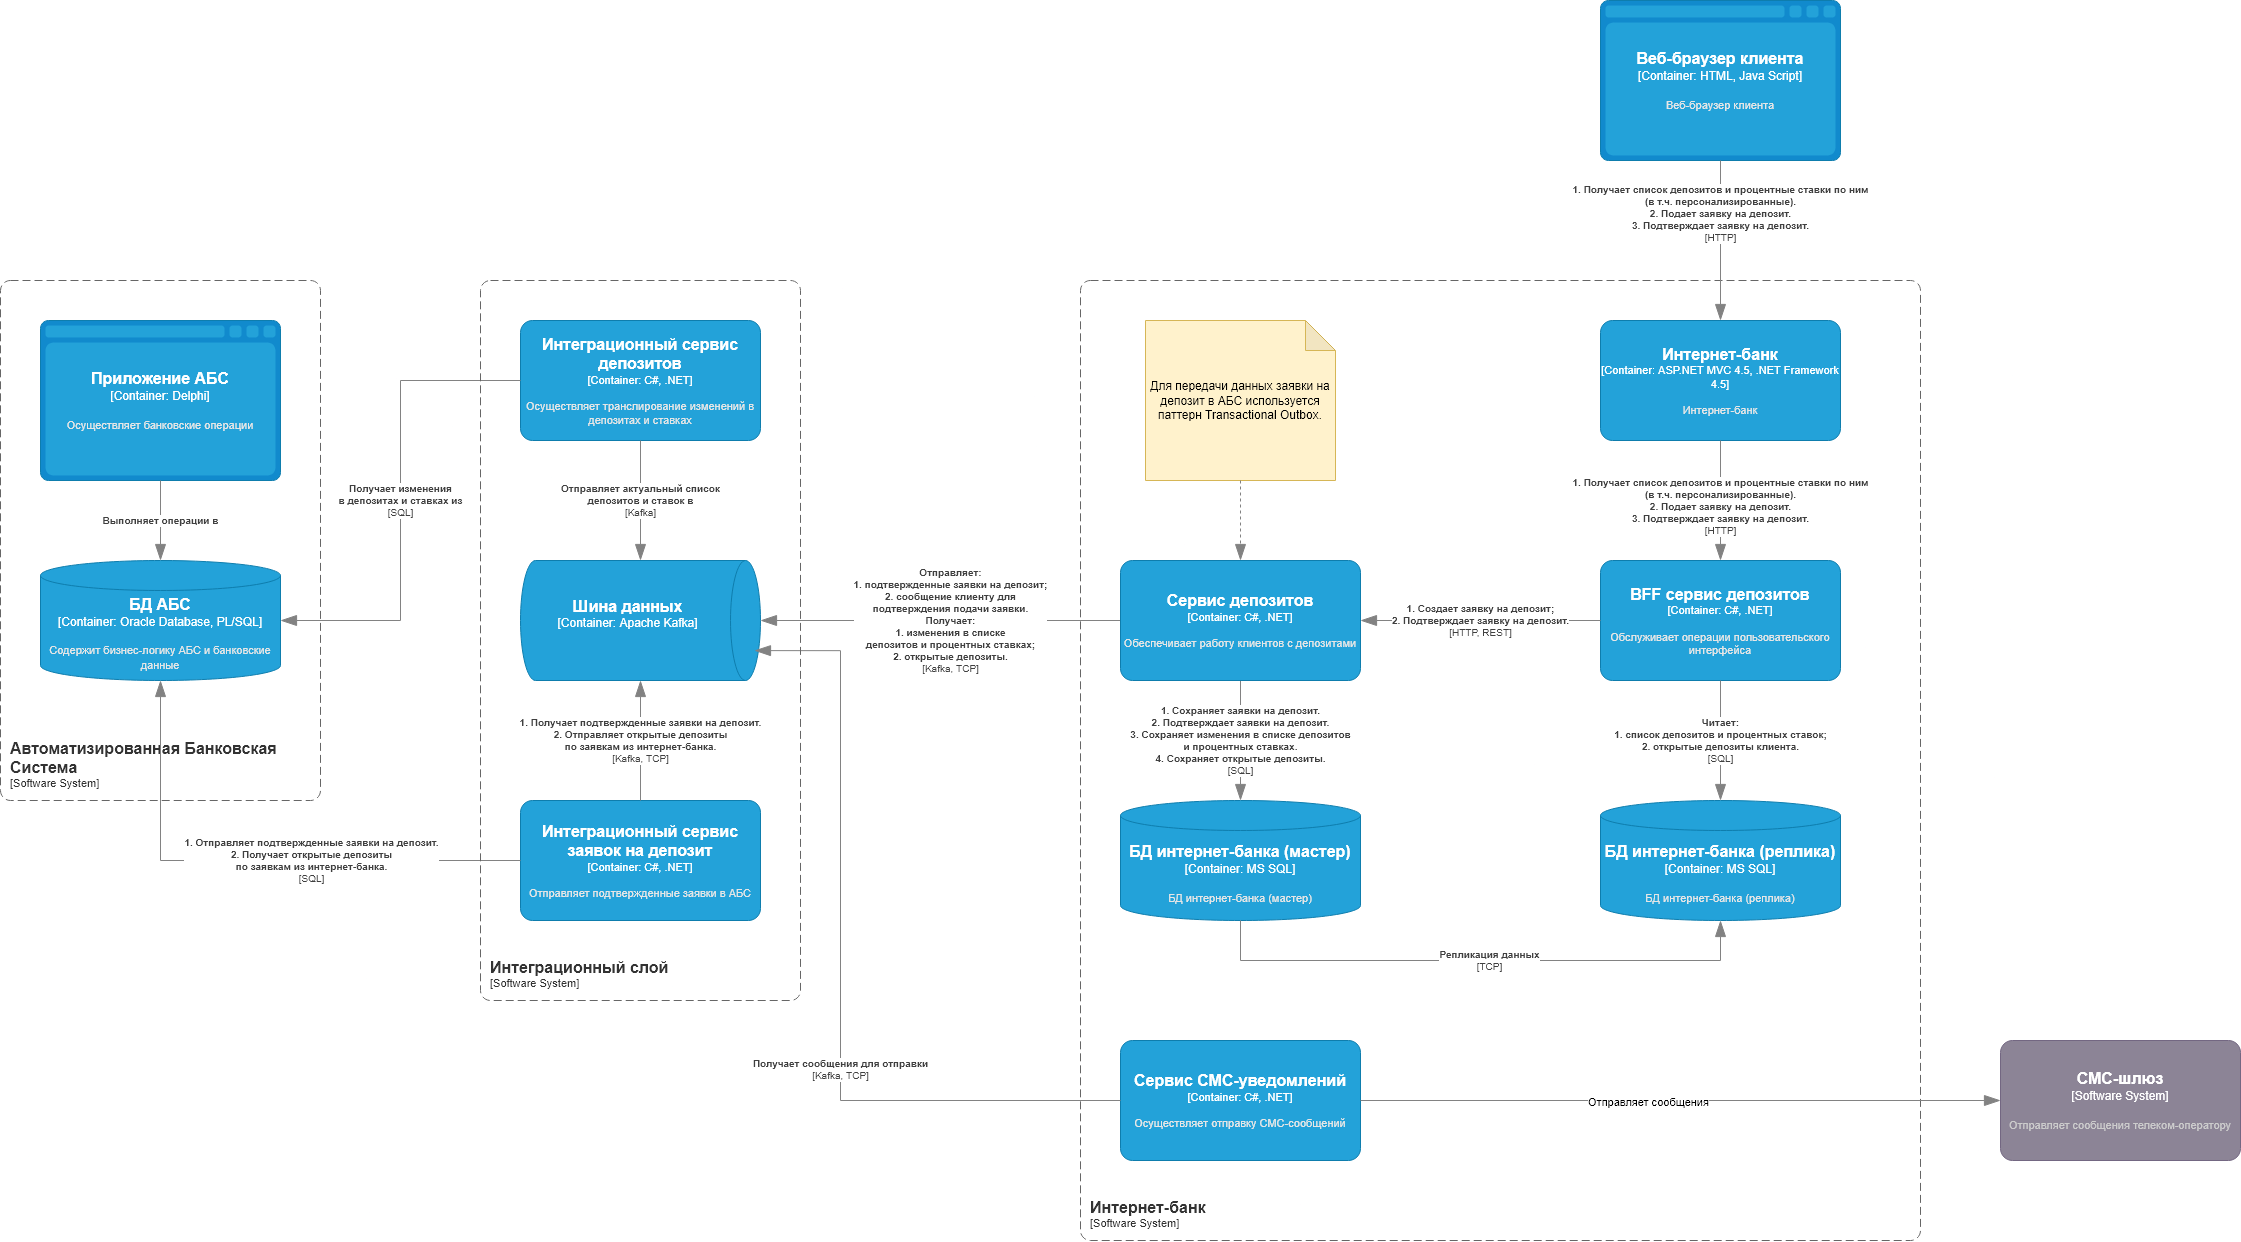
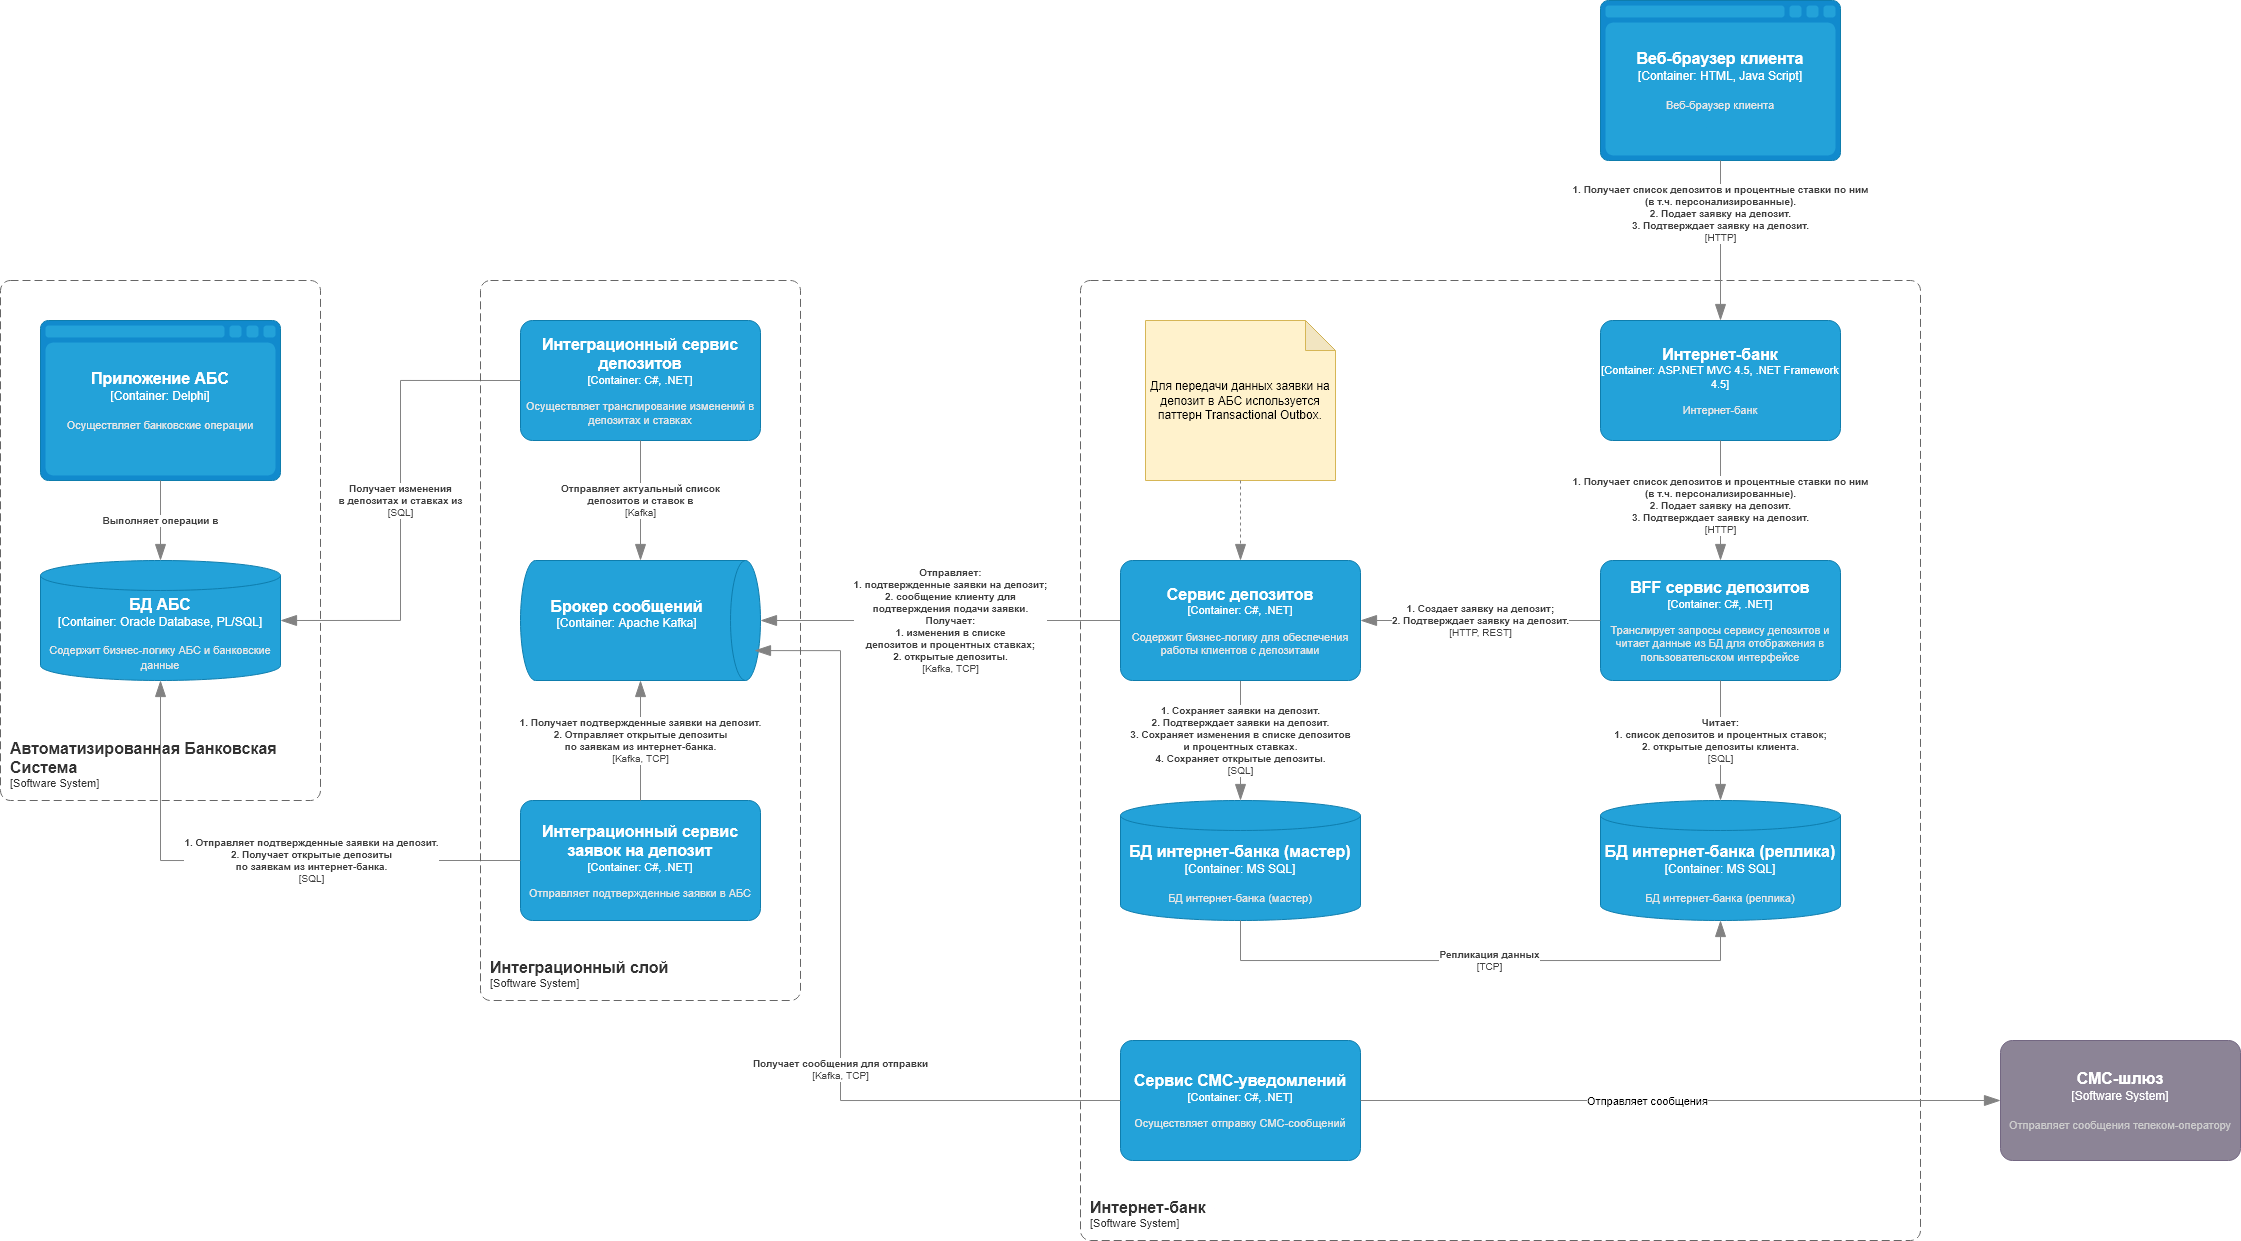
Правка замечаний

diff --git a/Exc3/ADR1.md b/Exc3/ADR1.md
@@ -39,7 +39,7 @@
 - Функции по работе с депозитами необходимо разрабатывать в отдельных от монолита интернет-банка сервисах (ограничение \+R1). На этапе MVP монолит будет выступать фасадом для соответствующих сервисов. Это необходимо, т.к. монолит реализует ряд обязательных функций (например, аутентификация и авторизация, отрисовка пользовательского интерфейса).  
 - Новые сервисы, которые реализуются в рамках MVP, должны разрабатываться с использованием платформы .NET, т.к. команда интернет-банка имеет экспертизу в работе с этой платформой и языком C\# (ограничение \+R5).  
 - Ввиду того, что АБС реализована с использованием СУБД Oracle, испытывает большую нагрузку и может масштабироваться только вертикально  (ограничения \+R7, \+R8), система интернет-банка должна взять на себя  всю нагрузку по взаимодействию с клиентами.   
-- Чтобы избежать влияния на АБС со стороны системы интернет-банка, необходимо реализовать асинхронное взаимодействие между ними. Взаимодействие осуществляется с использованием шины данных Apache Kafka (в режиме KRaft) (ограничение \+R6). Асинхронное взаимодействие повлечет дублирование части  клиентских данных на стороне системы интернет-банка (БД).  
+- Чтобы избежать влияния на АБС со стороны системы интернет-банка, необходимо реализовать асинхронное взаимодействие между ними. Взаимодействие осуществляется с использованием брокера Apache Kafka (в режиме KRaft) (ограничение \+R6). Асинхронное взаимодействие повлечет дублирование части  клиентских данных на стороне системы интернет-банка (БД).  
 - Для захвата изменений в таблицах АБС используются триггеры. Объем изменений данных ожидается небольшой, поэтому их использование не повлияет на общую производительность (+R7). Триггеры пишут изменения строк в виде json-документов в интеграционные таблицы в отдельной схеме.  
 - Данные клиентов размещаются в текущей БД интернет-банка (MS SQL, ограничение \+R5). Необходимо дополнительно развернуть несколько реплик БД которые будут отвечать за чтение данных и обеспечение отказоустойчивости.  
 - При хранении данных клиентов в системе интернет-банка необходимо учитывать требования к обработке персональных данных (ограничение \+R9).  
@@ -48,8 +48,7 @@
 
 ### **Альтернативы**
 
-1. BFF cервис депозитов может быть заменен на API gateway, т.к. предназначен для транслирования запросов сервису депозитов и чтения данных для отображения в пользовательском интерфейсе. Ввиду ограниченного скоупа функциональности в MVP, разработка отдельного сервиса будет проще, чем внедрение API gateway.  
-2. Для захвата изменений в таблицах АБС может быть применен Oracle Golden Gate или Debezium, при этом, Oracle Golden Gate платный продукт. Оба варианта используют Log Miner, который оказывает нагрузку на ресурсы СУБД и требует администрирования. Поэтому, использование их в рамках MVP было бы избыточным.
+1. Для захвата изменений в таблицах АБС может быть применен Oracle Golden Gate или Debezium, при этом, Oracle Golden Gate платный продукт. Оба варианта используют Log Miner, который оказывает нагрузку на ресурсы СУБД и требует администрирования. Поэтому, использование их в рамках MVP было бы избыточным.
 
 ### **Недостатки, ограничения, риски**
 
